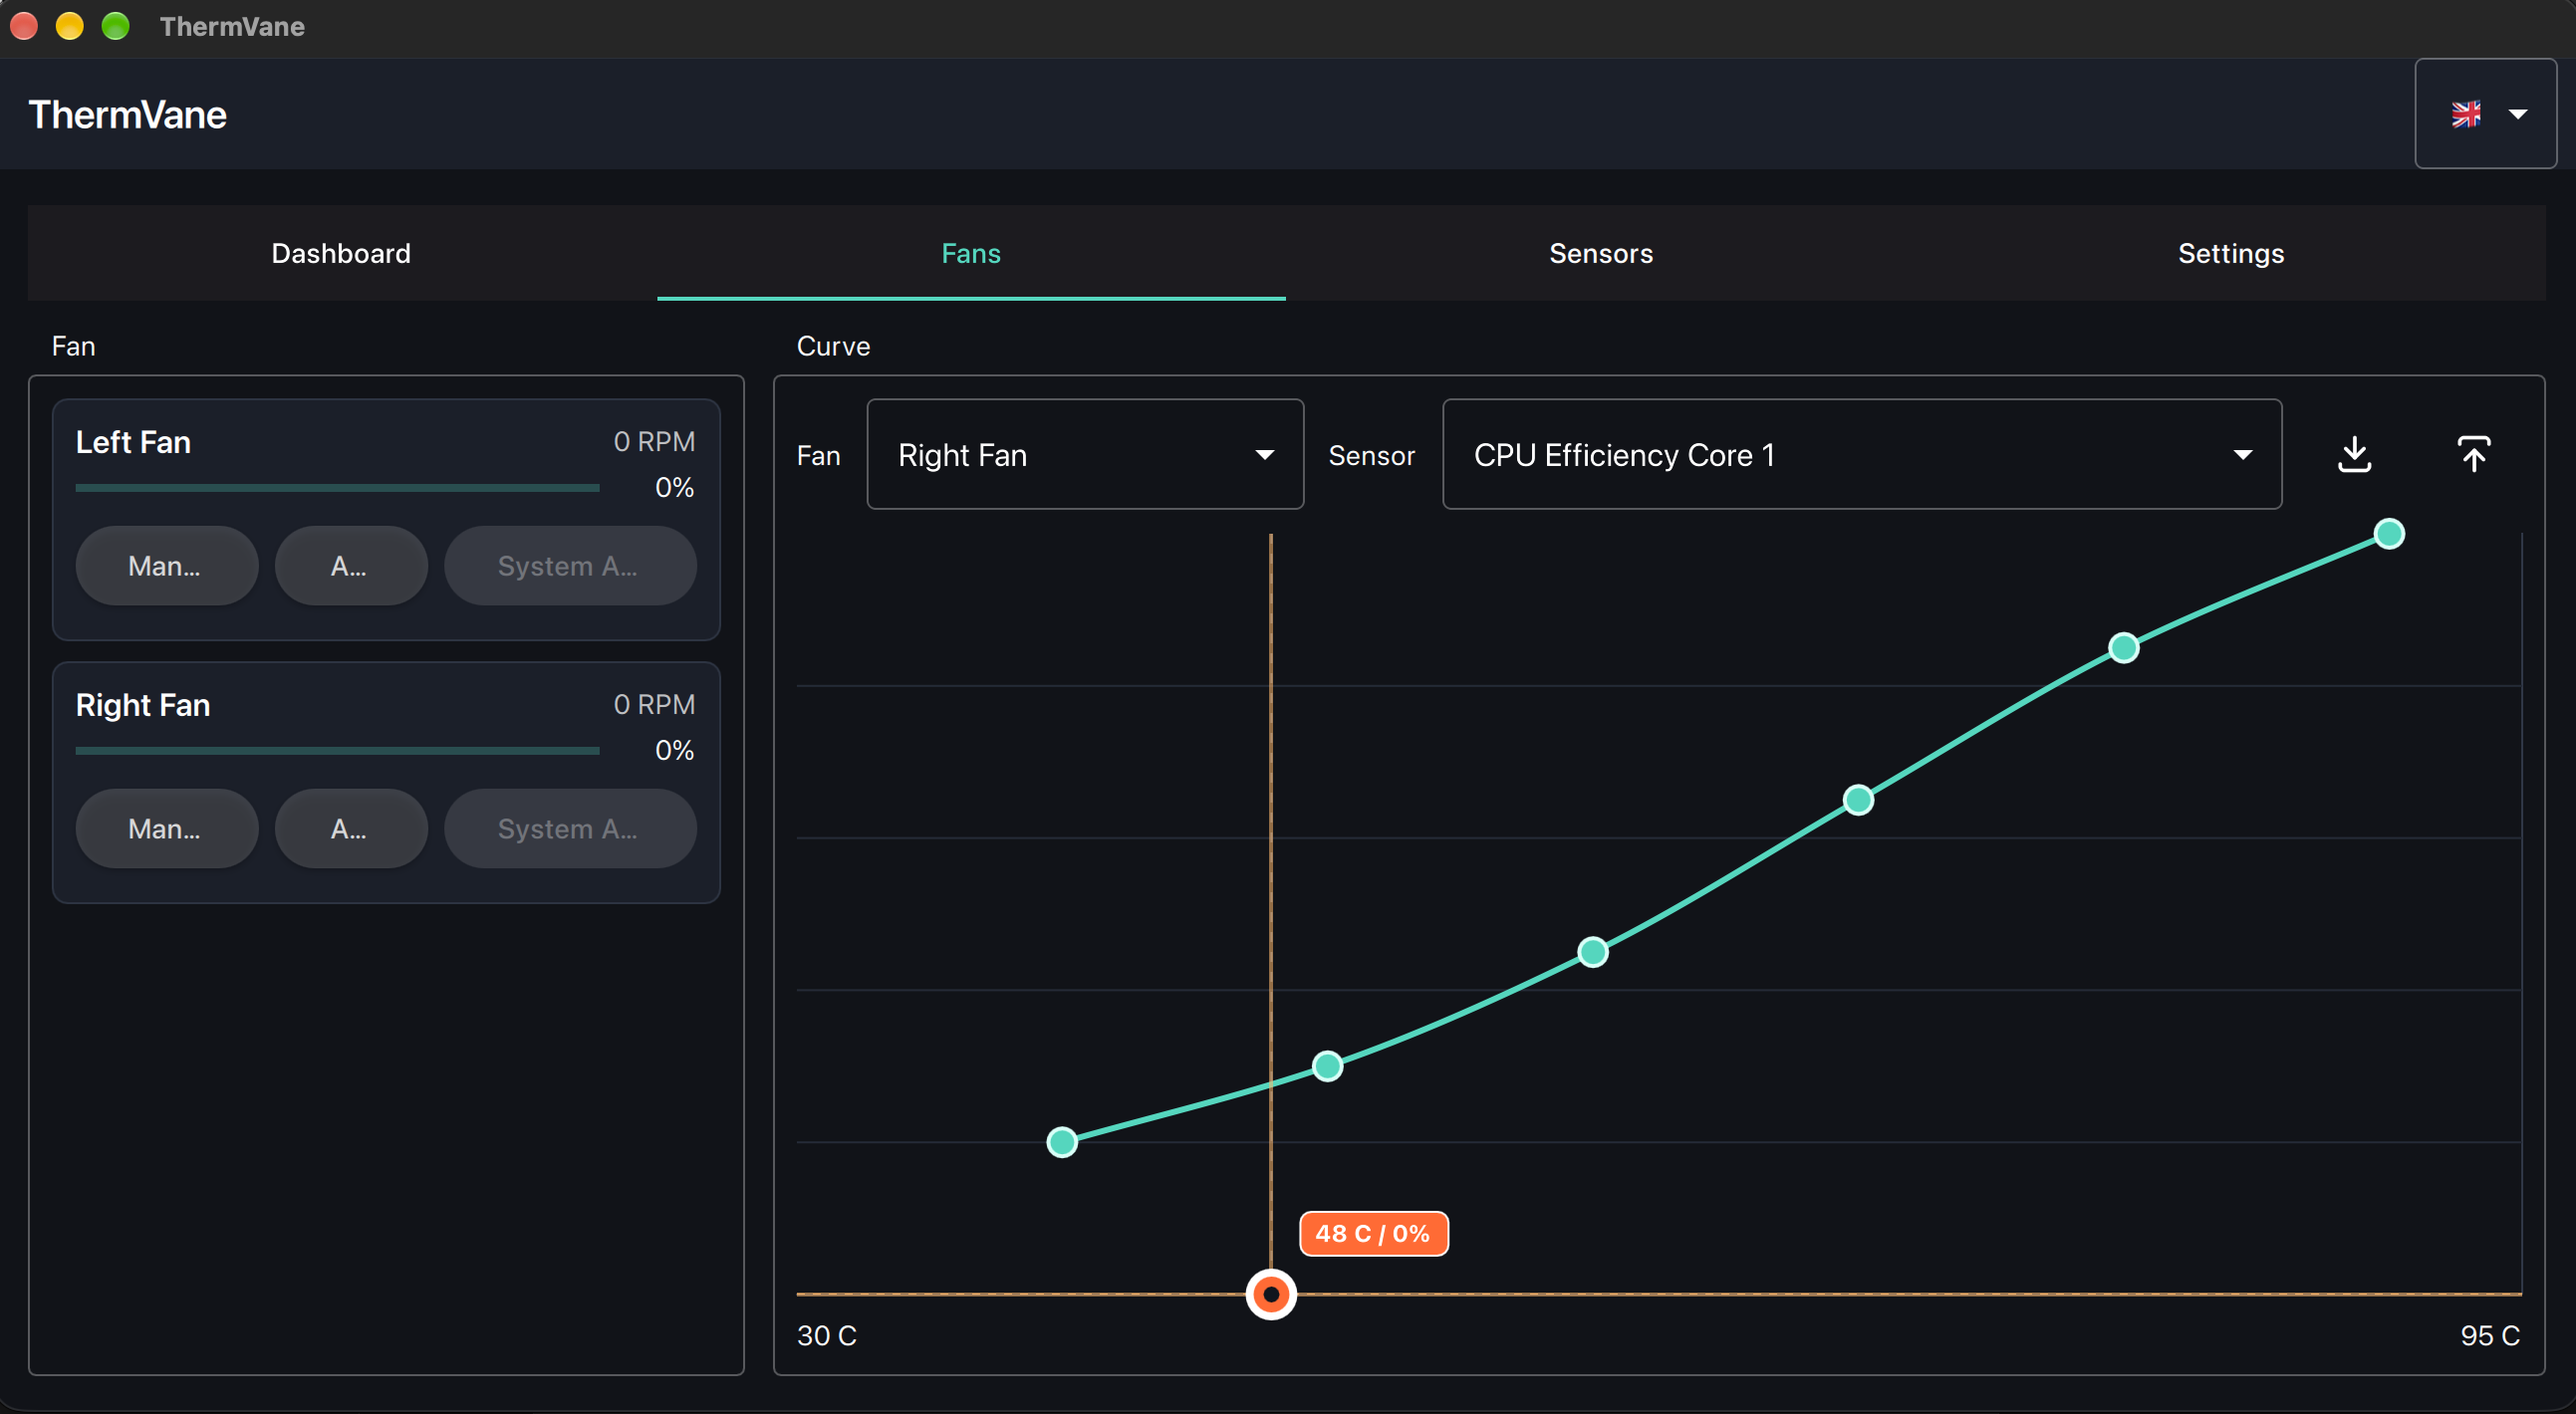
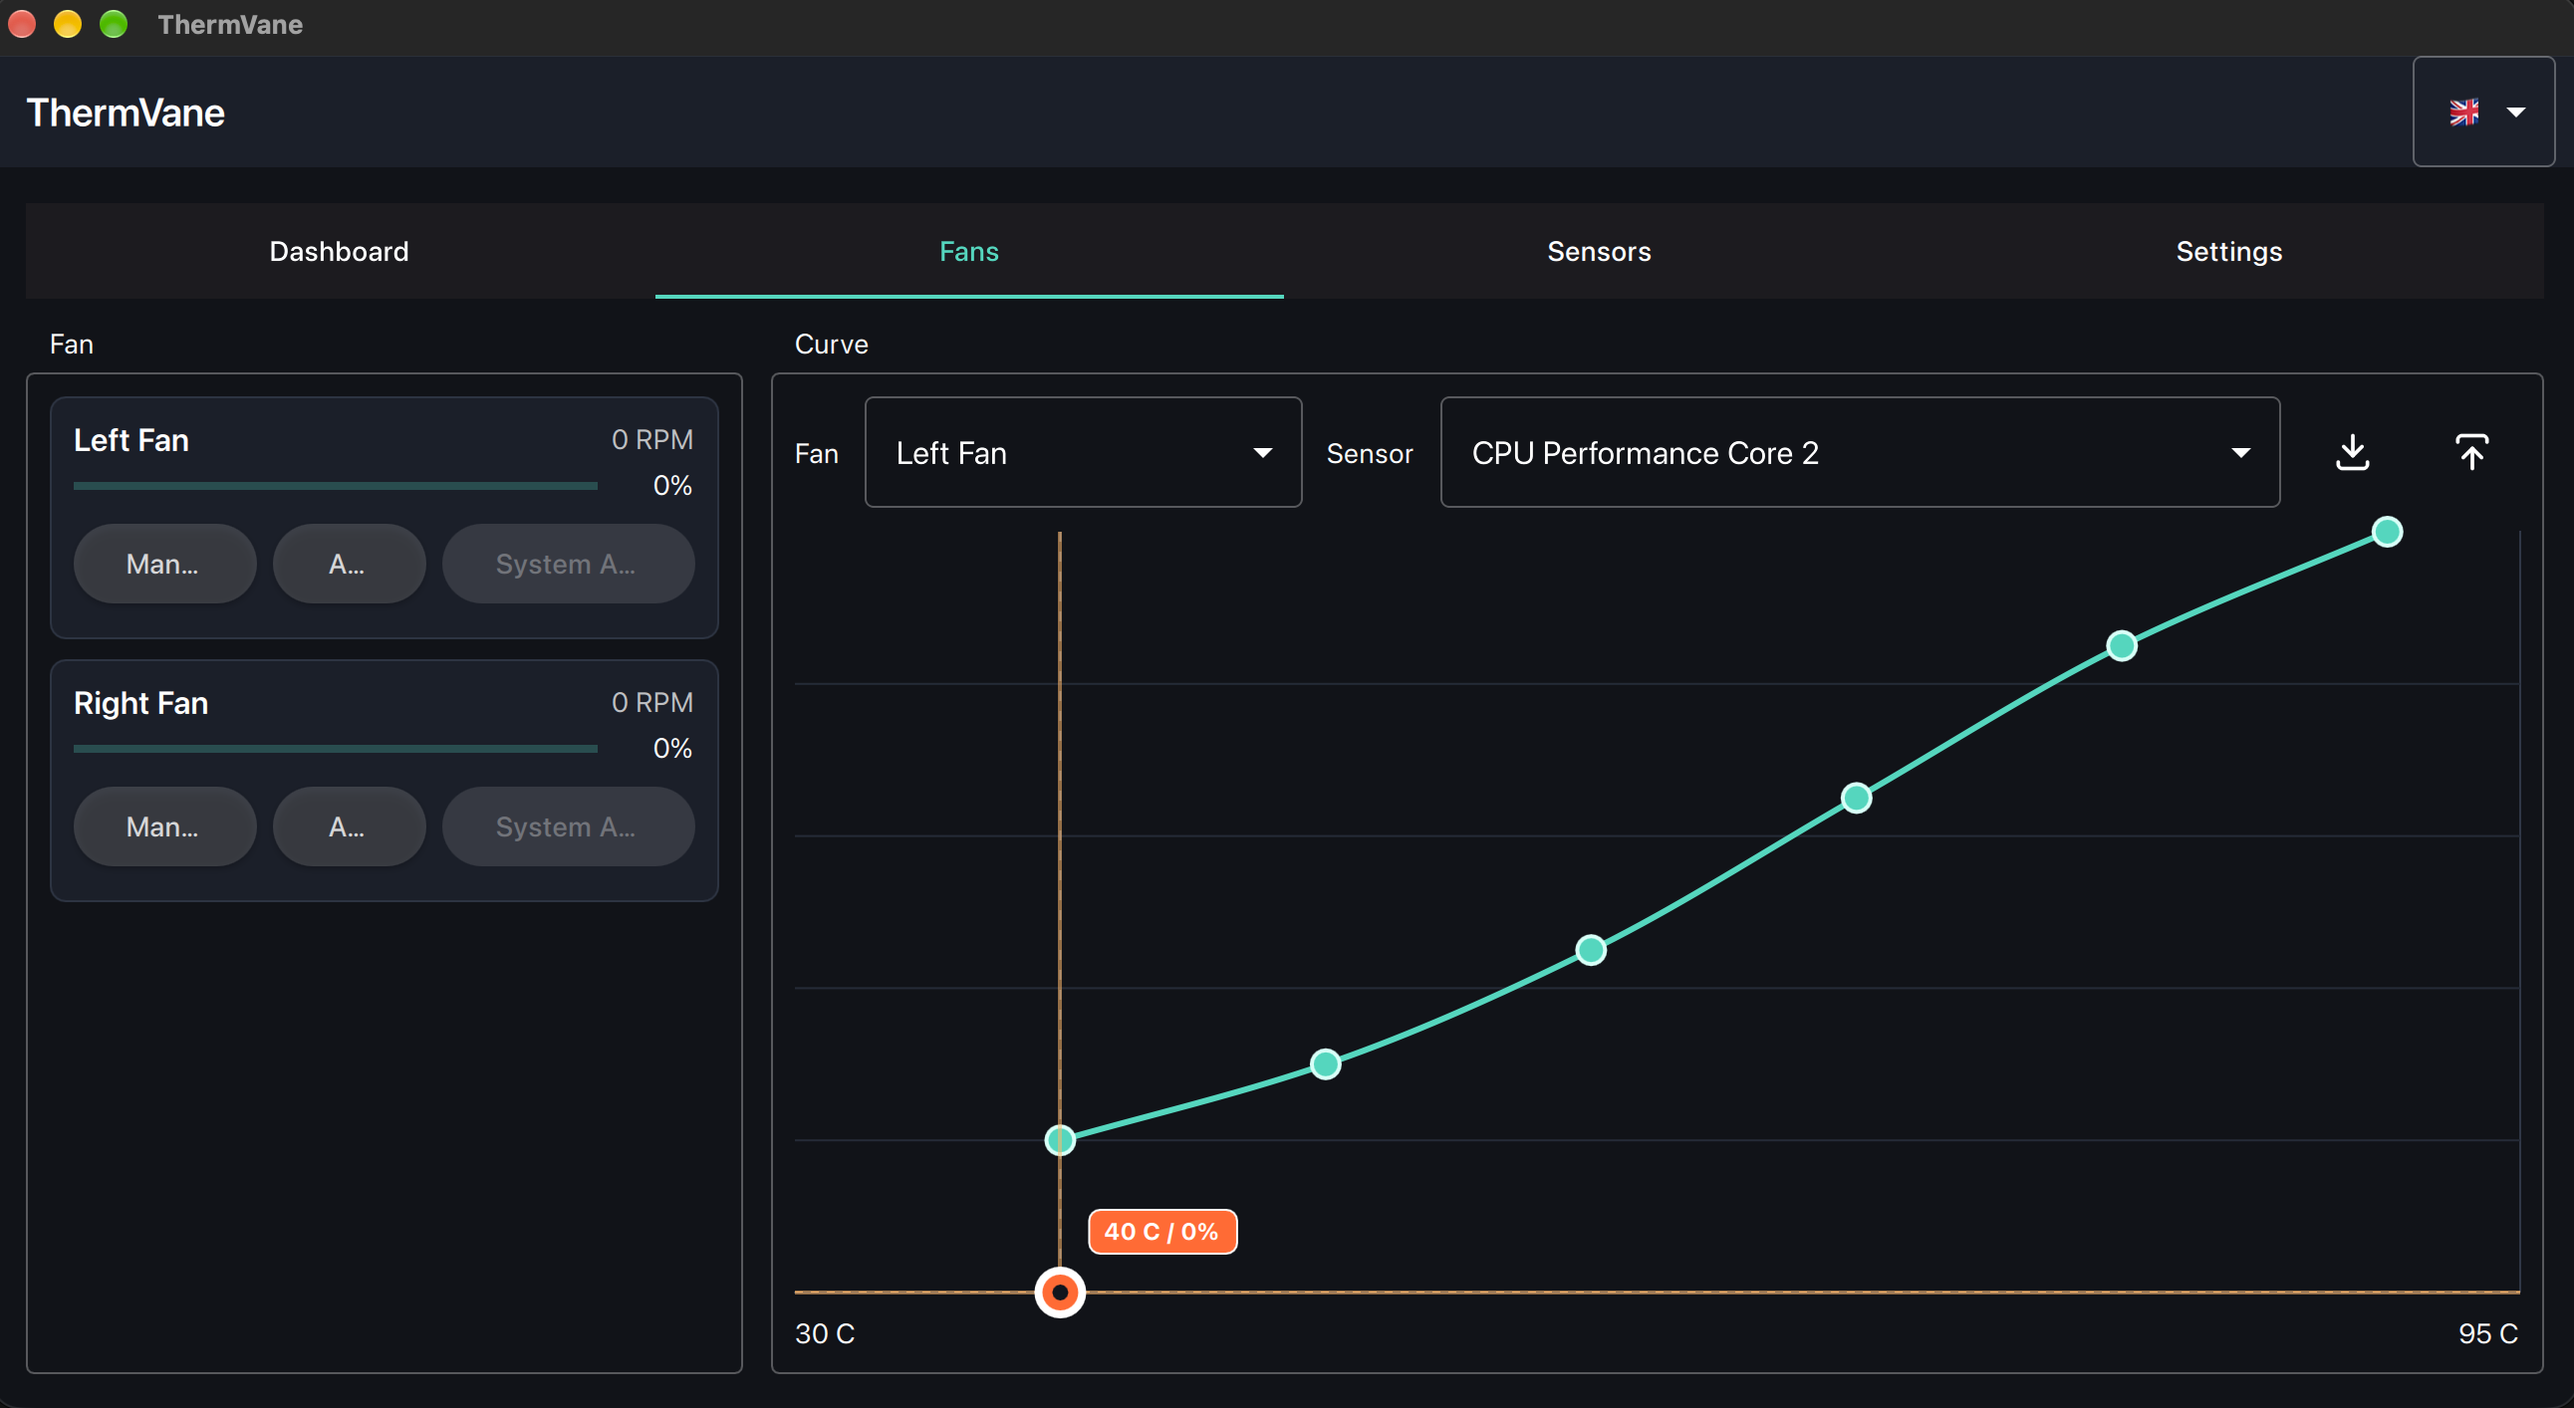
Fixed macOS Bug: Fans were  not controlled in -Auto- mode

diff --git a/src/helper/FanSpeedHelper.cpp b/src/helper/FanSpeedHelper.cpp
@@ -637,9 +637,14 @@ void handleClient(int clientFd, uid_t allowedUid)
     if (command == "RESTORE") {
         std::string fanId;
         stream >> fanId;
+        if (fanId.empty() || stream.fail()) {
+            writeAll(clientFd, "ERR invalid command\n");
+            return;
+        }
+
         std::string trailing;
         const bool hasTrailingData = static_cast<bool>(stream >> trailing);
-        if (fanId.empty() || stream.fail() || hasTrailingData) {
+        if (hasTrailingData) {
             writeAll(clientFd, "ERR invalid command\n");
             return;
         }
@@ -655,11 +660,16 @@ void handleClient(int clientFd, uid_t allowedUid)
     std::string fanId;
     double percent = 0.0;
     stream >> fanId >> percent;
+    if (command != "SET" || fanId.empty() || stream.fail()
+        || !std::isfinite(percent) || percent < 0.0 || percent > 100.0) {
+        writeAll(clientFd, "ERR invalid command\n");
+        return;
+    }
+
     std::string trailing;
     const bool hasTrailingData = static_cast<bool>(stream >> trailing);
 
-    if (command != "SET" || fanId.empty() || stream.fail() || hasTrailingData
-        || !std::isfinite(percent) || percent < 0.0 || percent > 100.0) {
+    if (hasTrailingData) {
         writeAll(clientFd, "ERR invalid command\n");
         return;
     }
